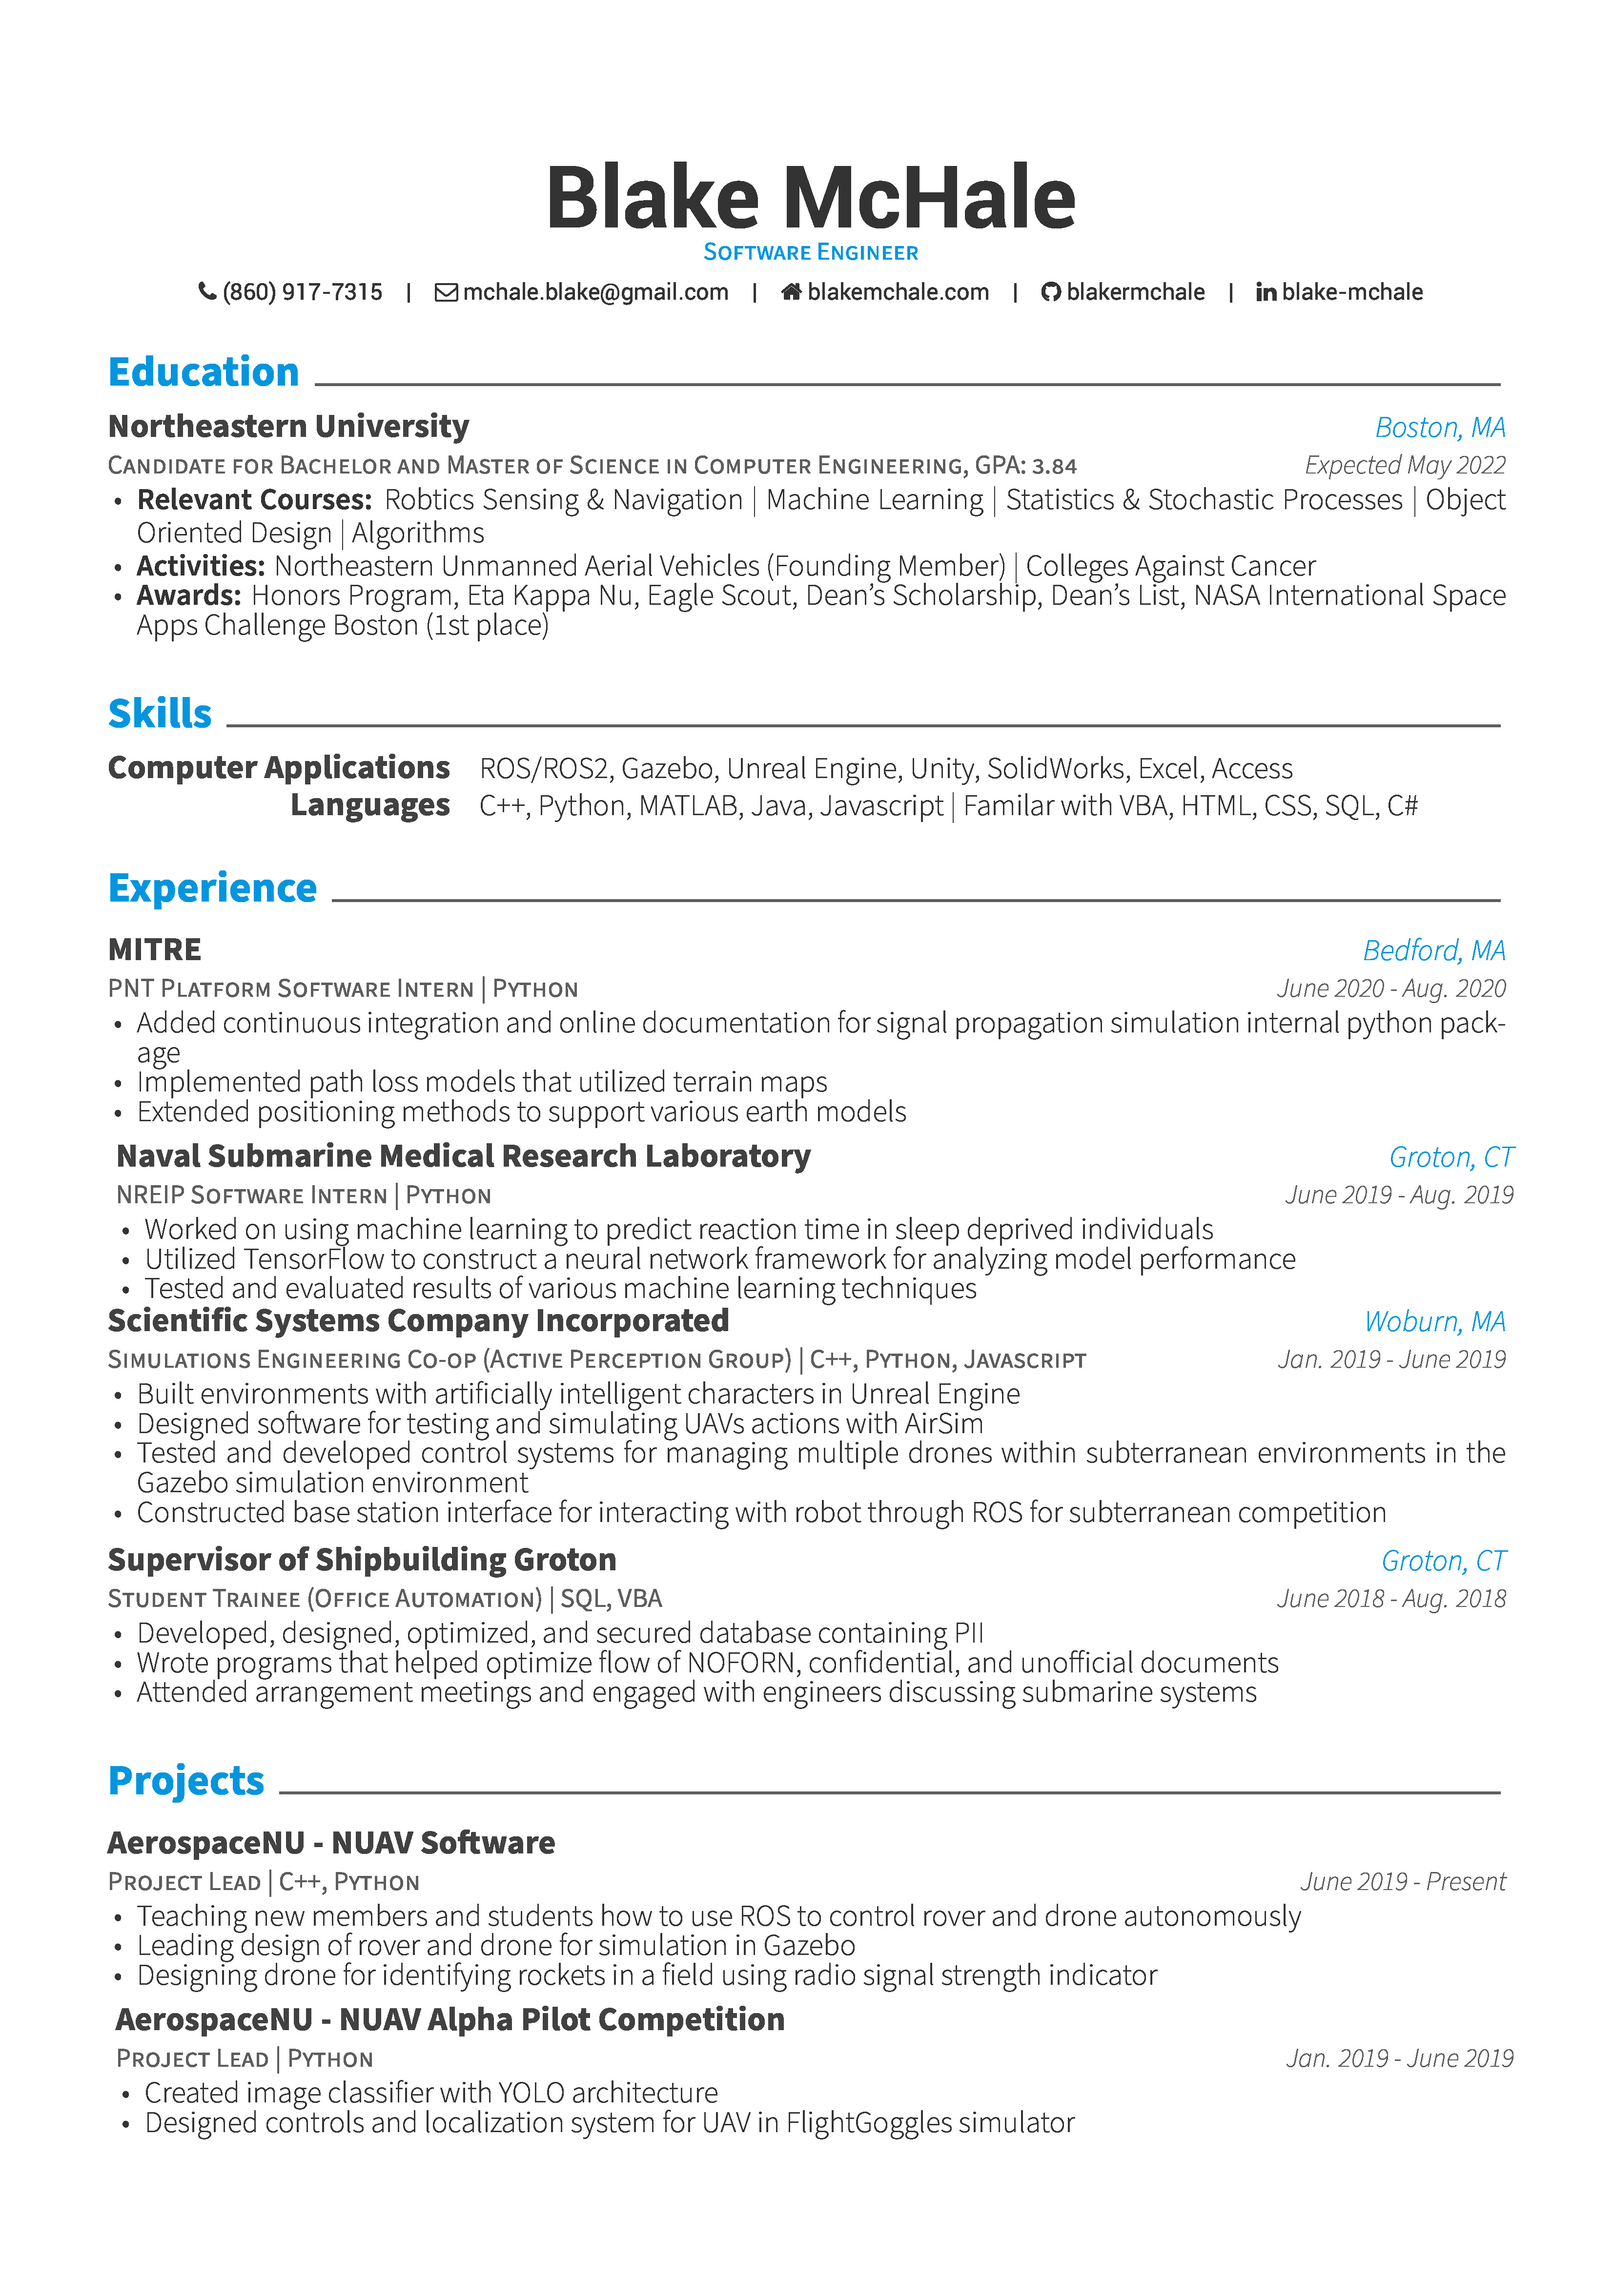
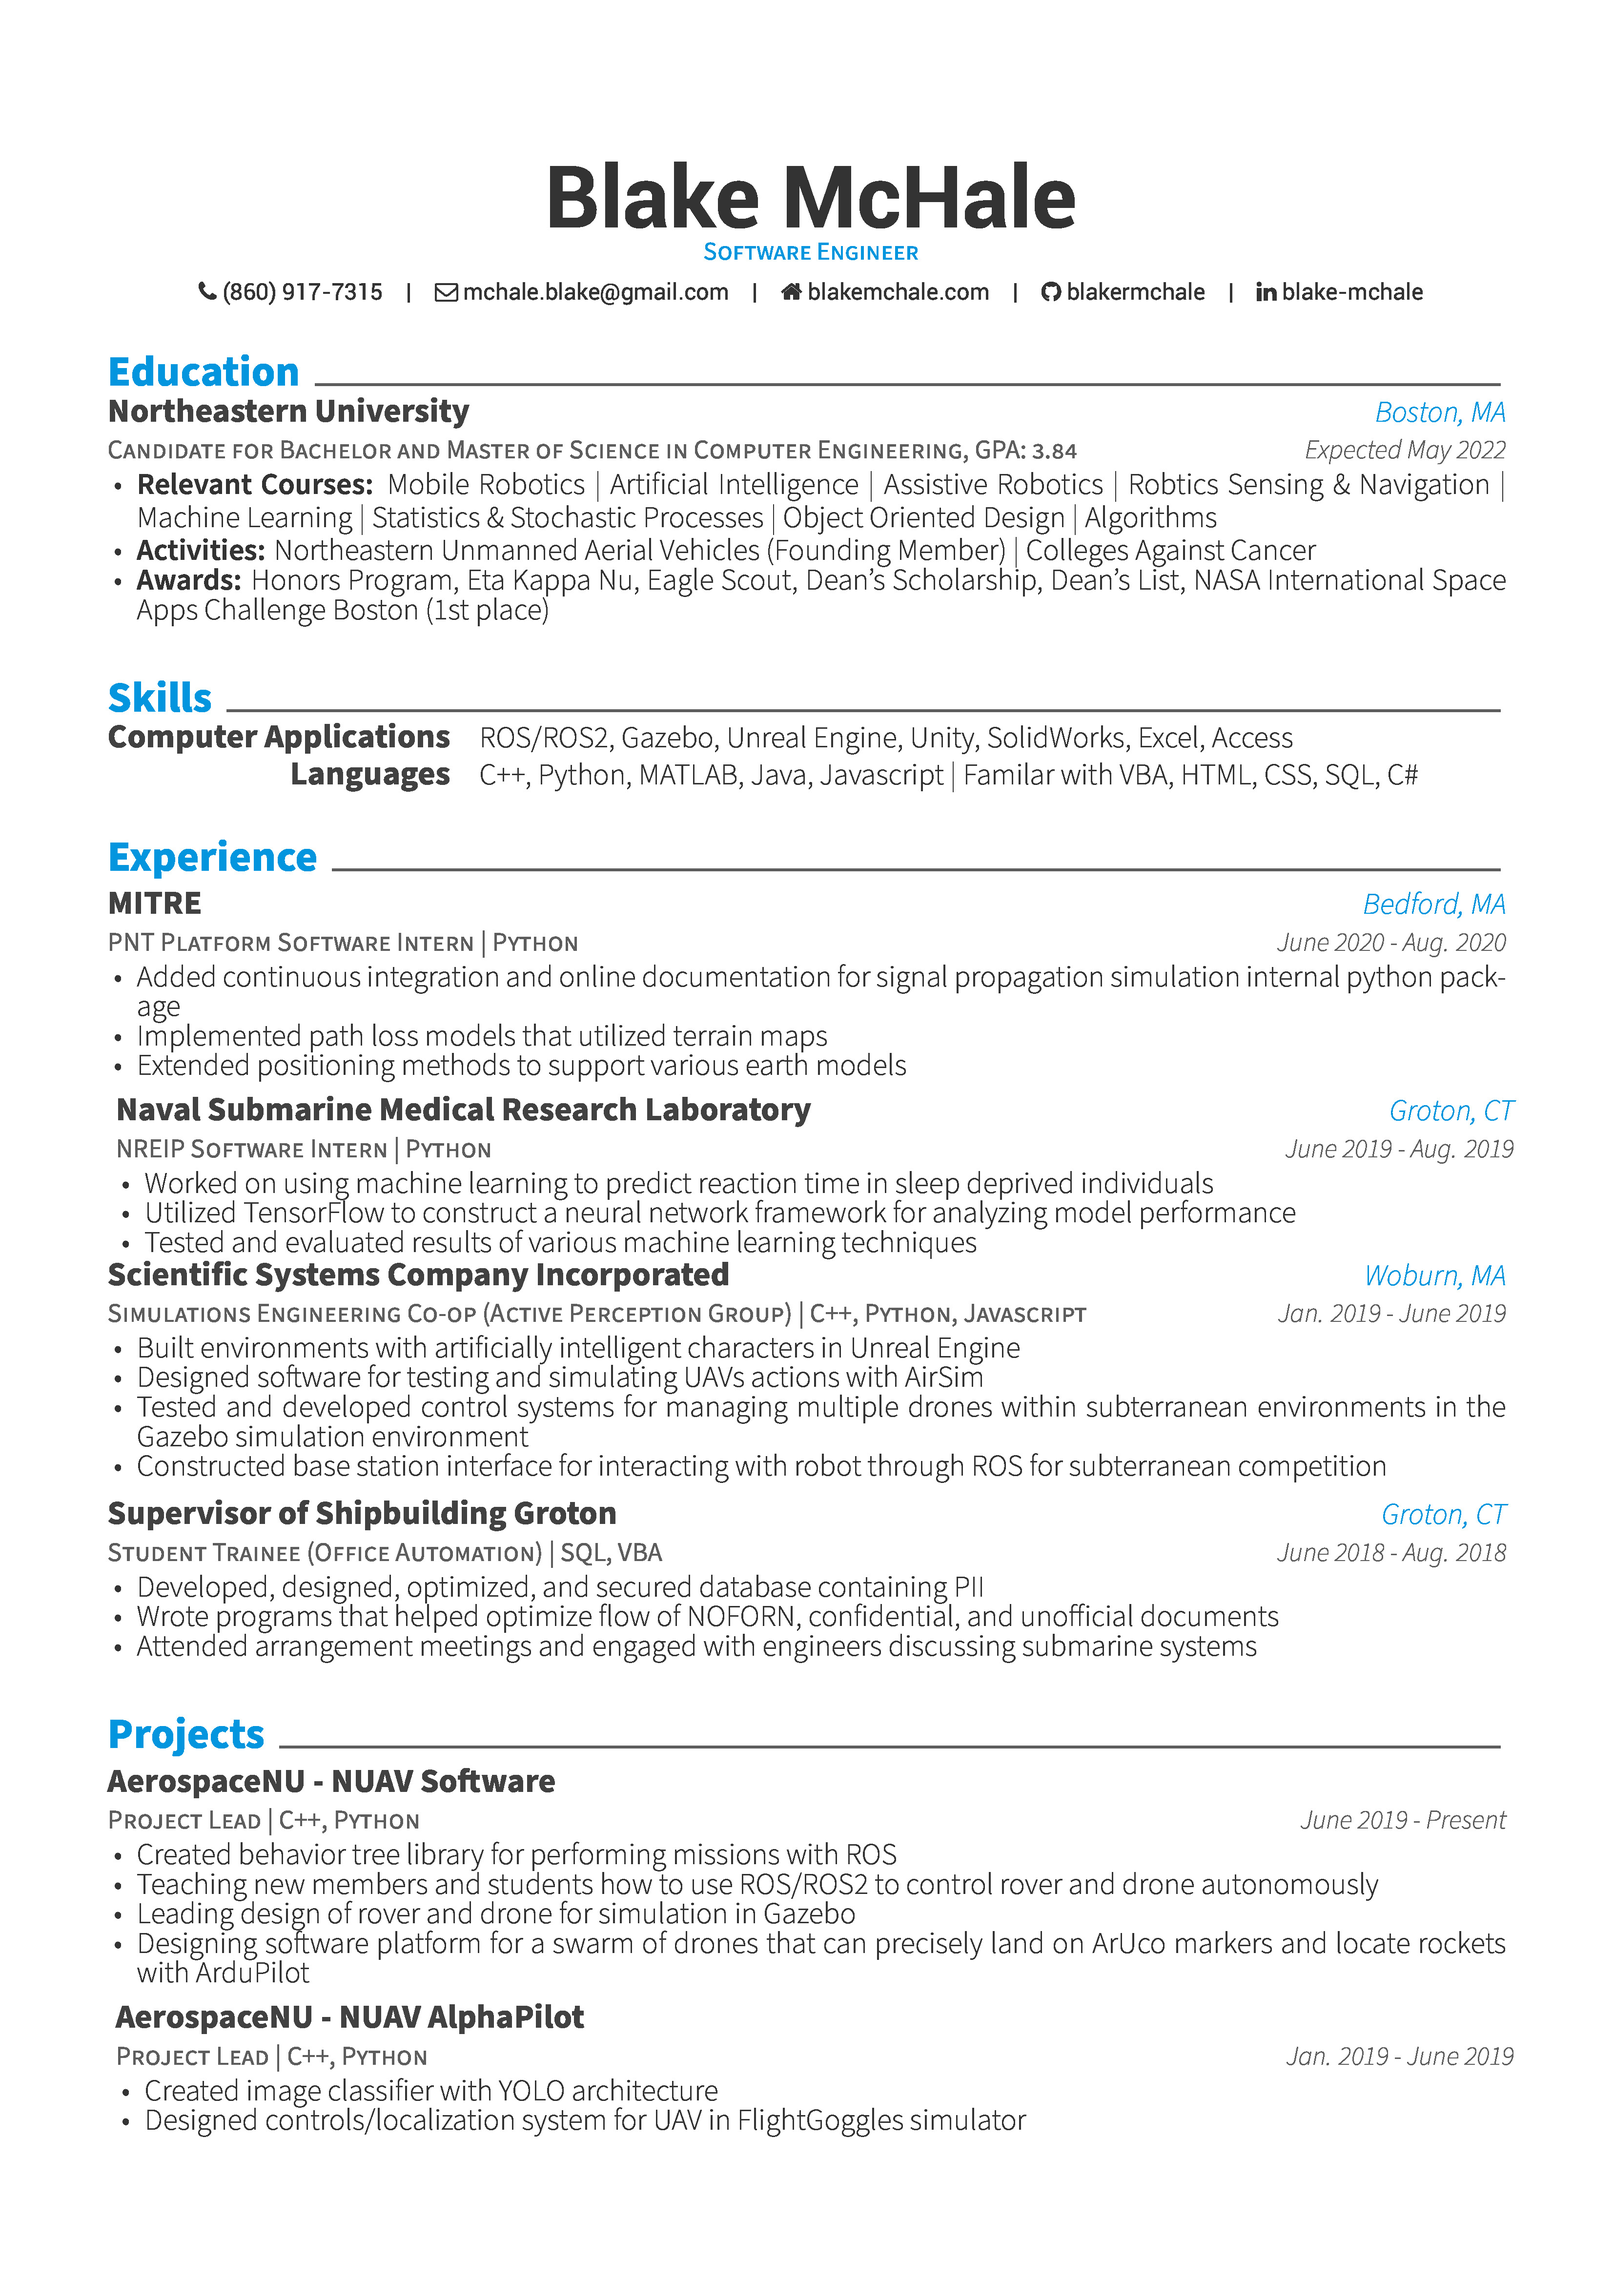
Change project section

diff --git a/resume/projects.tex b/resume/projects.tex
@@ -8,20 +8,21 @@
     {June 2019 - Present} % Empty date
     {
       \begin{cvitems} % Description(s) bullet points
-        \item {Teaching new members and students how to use ROS to control rover and drone autonomously}
+        \item {Created behavior tree library for performing missions with ROS}
+        \item {Teaching new members and students how to use ROS/ROS2 to control rover and drone autonomously}
         \item {Leading design of rover and drone for simulation in Gazebo}
-        \item {Designing drone for identifying rockets in a field using radio signal strength indicator}
+        \item {Designing software platform for a swarm of drones that can precisely land on ArUco markers and locate rockets with ArduPilot}
       \end{cvitems}
     }
   \cventry
-    {Project Lead | Python} % Empty position
-    {AerospaceNU - NUAV Alpha Pilot Competition} % Project
+    {Project Lead | C++, Python} % Empty position
+    {AerospaceNU - NUAV AlphaPilot} % Project
     {} % Empty location
     {Jan. 2019 - June 2019} % Empty date
     {
       \begin{cvitems} % Description(s) bullet points
         \item {Created image classifier with YOLO architecture}
-        \item {Designed controls and localization system for UAV in FlightGoggles simulator}
+        \item {Designed controls/localization system for UAV in FlightGoggles simulator}
       \end{cvitems}
     }
 \end{cventries}

diff --git a/resume/education.tex b/resume/education.tex
@@ -8,7 +8,7 @@
     {Expected May 2022} % Date(s)
     {
       \begin{cvitems} % Description(s) bullet points
-         \item {\textbf{Relevant Courses:} Robtics Sensing \& Navigation | Machine Learning | Statistics \& Stochastic Processes | Object Oriented Design | Algorithms}
+         \item {\textbf{Relevant Courses:} Mobile Robotics | Artificial Intelligence | Assistive Robotics | Robtics Sensing \& Navigation | Machine Learning | Statistics \& Stochastic Processes | Object Oriented Design | Algorithms}
          \item {\textbf{Activities:} Northeastern Unmanned Aerial Vehicles (Founding Member) | Colleges Against Cancer}
          \item {\textbf{Awards:} Honors Program, Eta Kappa Nu, Eagle Scout, Dean's Scholarship, Dean's List, NASA International Space Apps Challenge Boston (1st place)}
       \end{cvitems}
